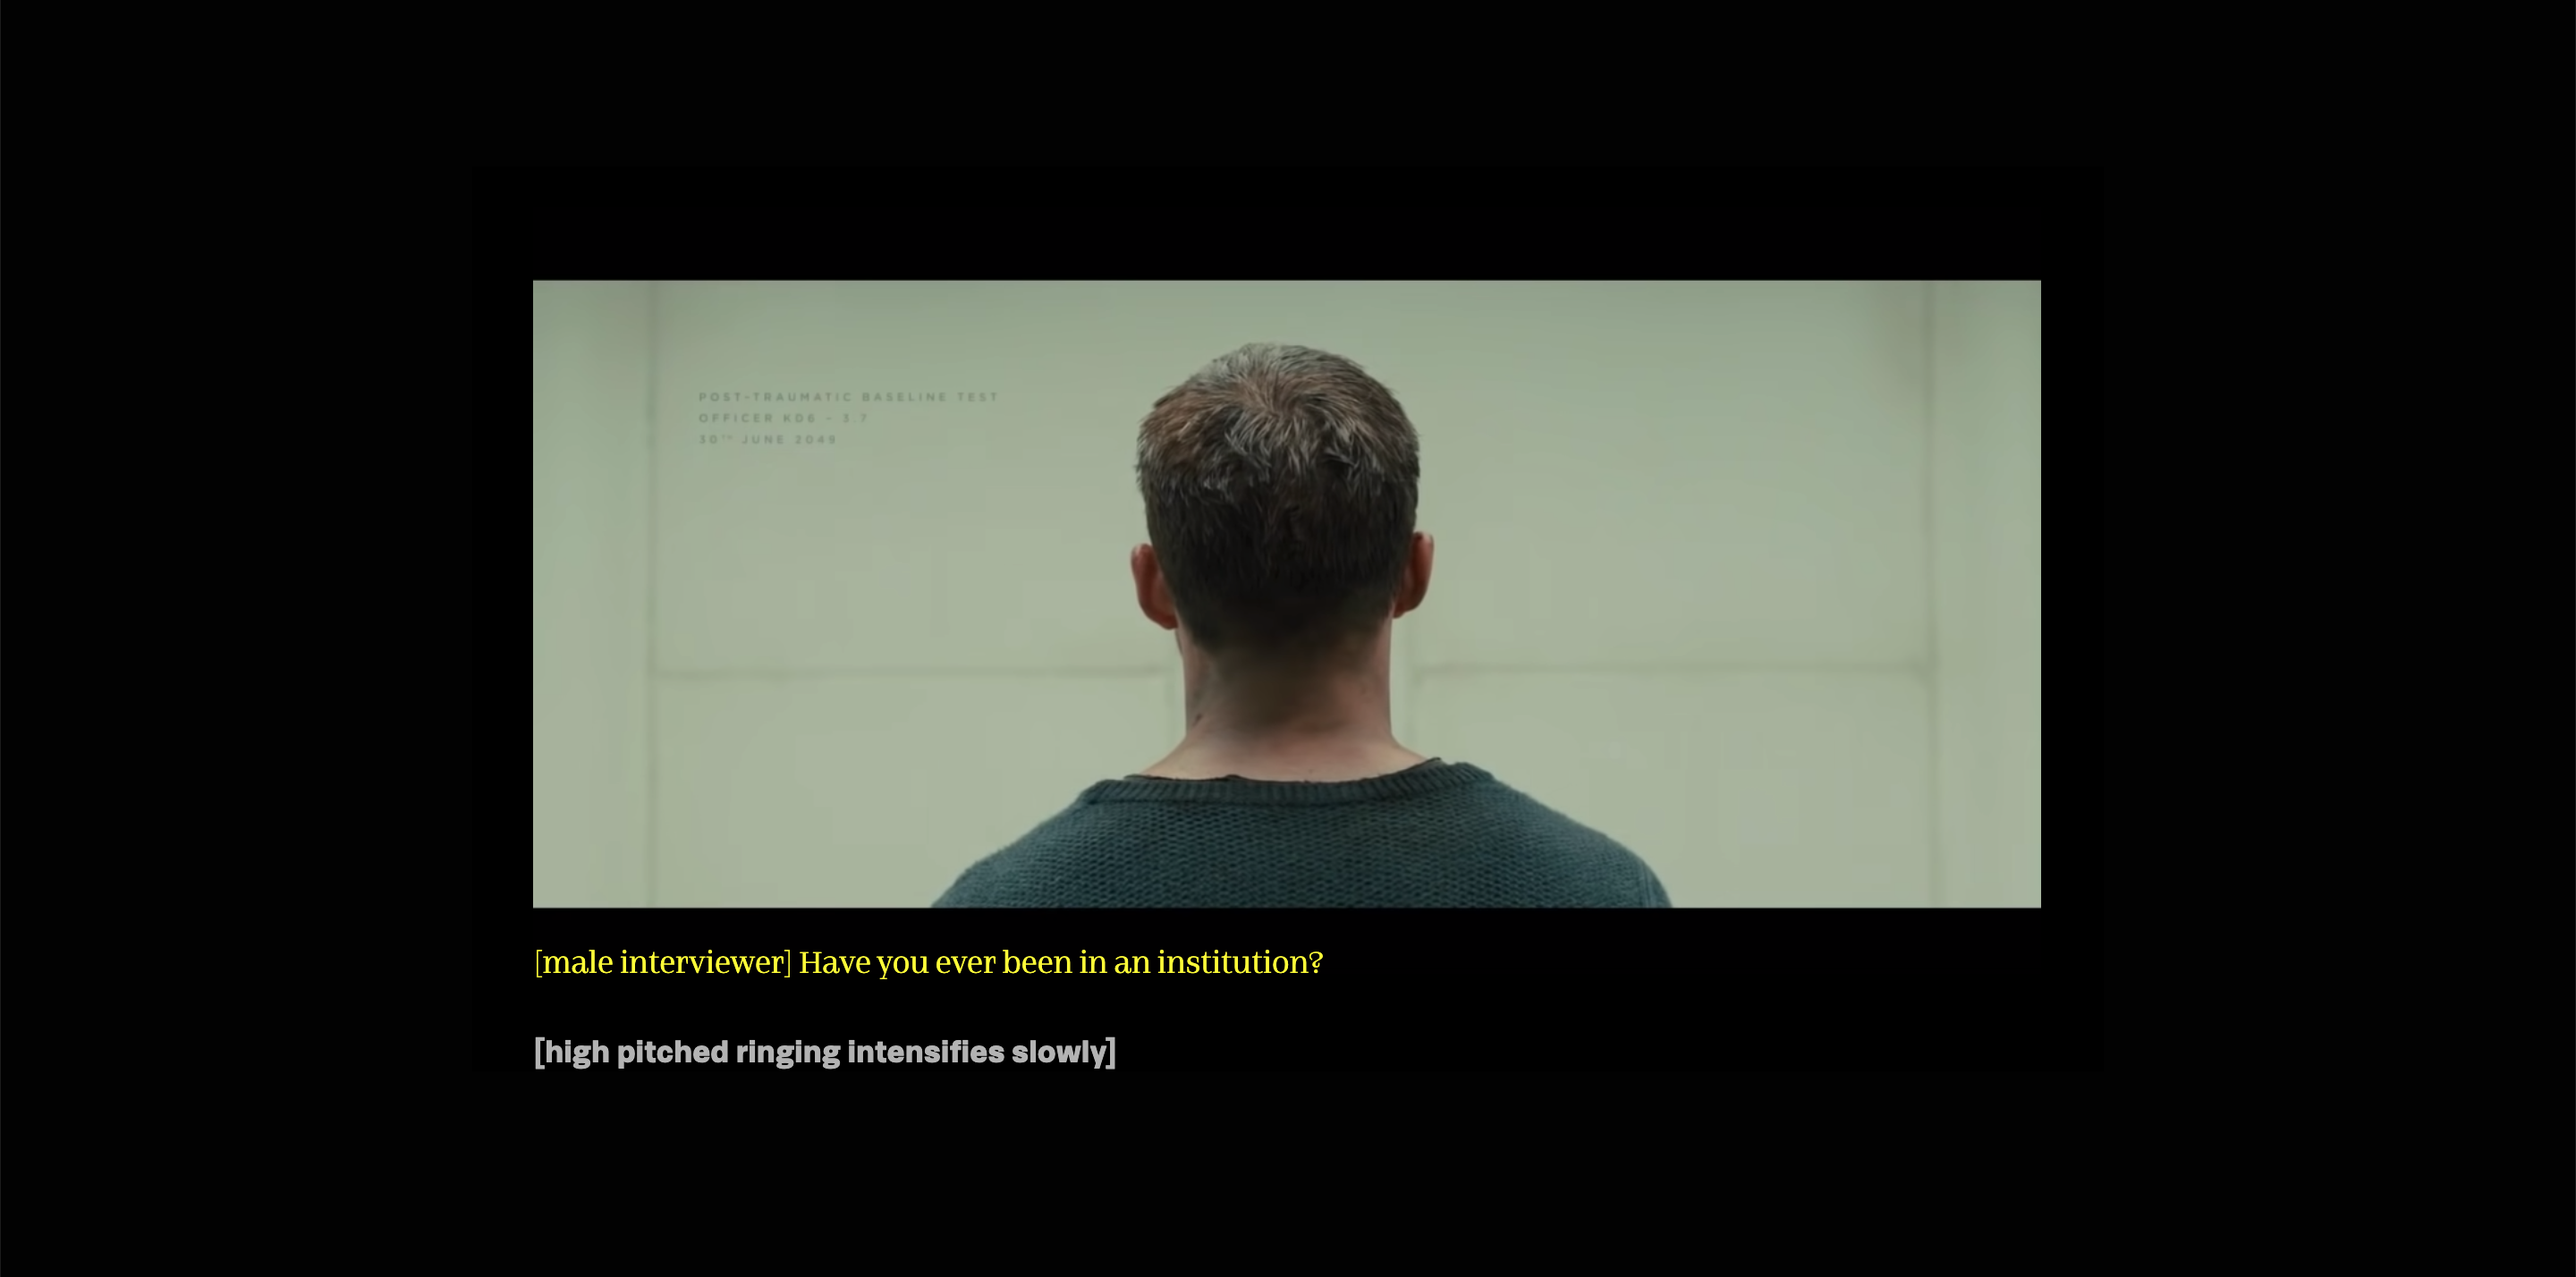
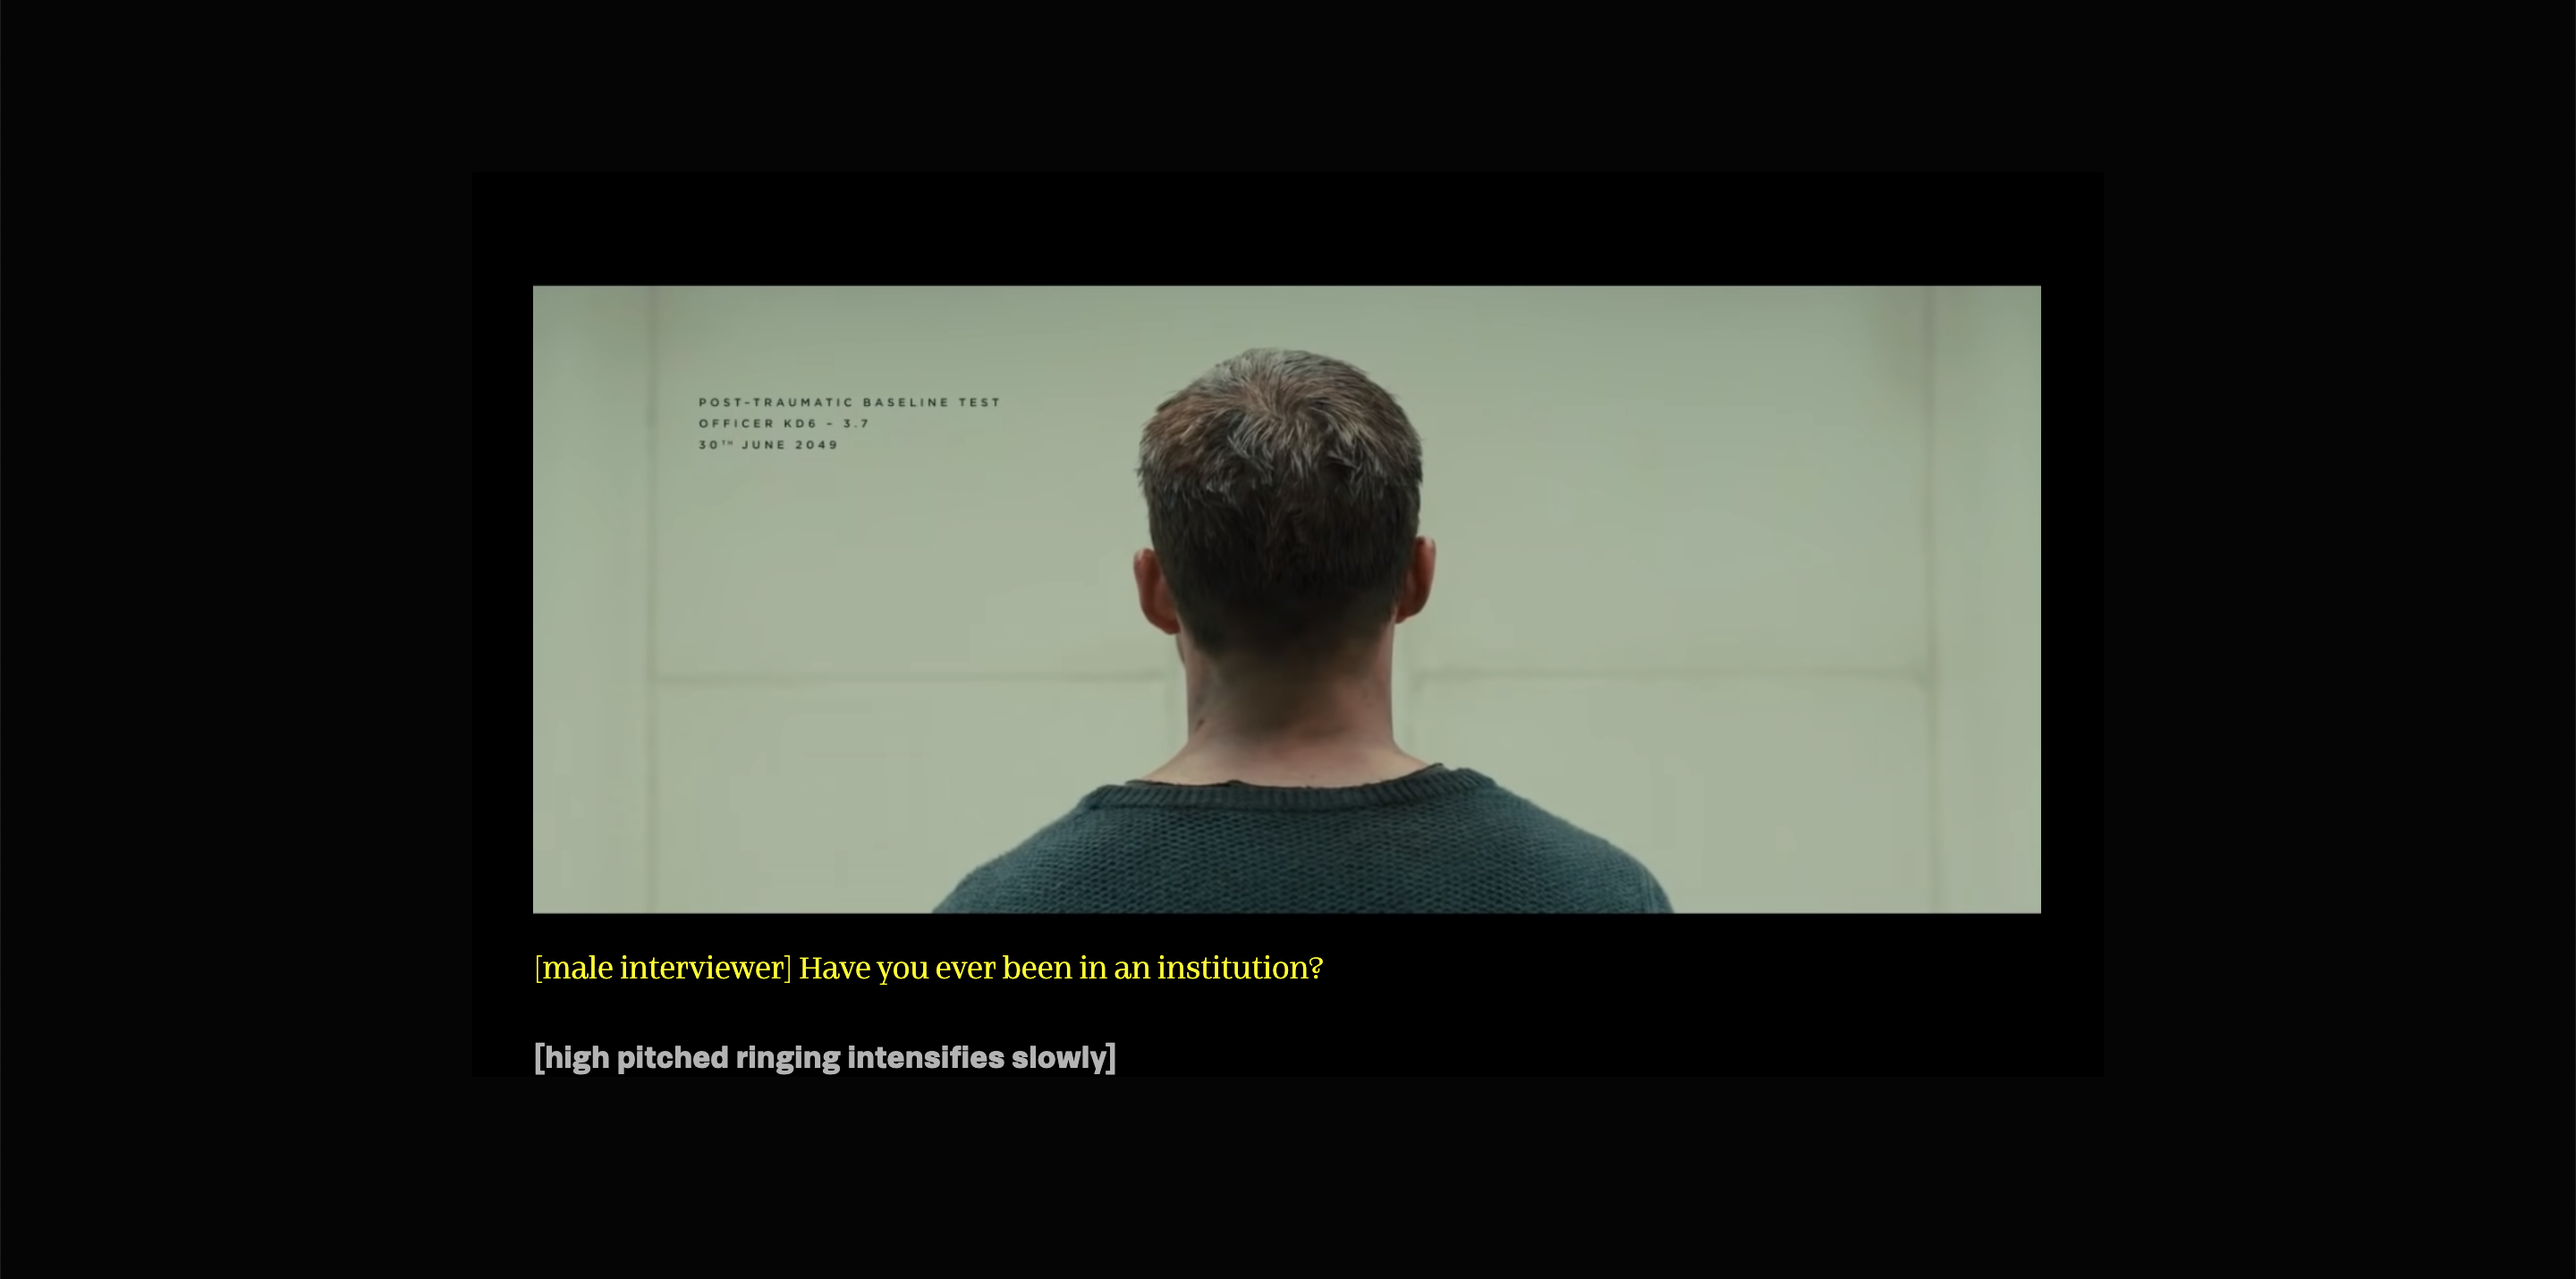
Updates

diff --git a/closed-captions-v3/css.css b/closed-captions-v3/css.css
@@ -39,68 +39,58 @@ body {
 
 /*  D E  S T E M M E N  */
 
-.voice1
-
-/*male interviewer*/
-    {
+.voice1 /*male interviewer*/ {
     color: yellow;
-    font-family: "Brenner Regular";
+    font-family: "Brenner Mono Light";
     font-style: Normal;
-    font-weight: 400;
+    font-weight: 200;
+    letter-spacing: -1px;
     margin-top: -4em;
     margin-left: 16.5em;
     z-index: 99;
 }
 
-.voice1off
-
-/*male interviewer off screen*/
-    {
+.voice1off /*male interviewer off screen*/ {
     color: yellow;
-    font-family: "Brenner Regular";
-    font-style: Normal;
-    font-weight: 400;
+    font-family: "Brenner Mono Light Italic";
+    font-style: Italic;
+    font-weight: 200;
+    letter-spacing: -1px;
     margin-top: -4em;
     margin-left: 16.5em;
     z-index: 99;
 }
 
-.voice2
-
-/*joe*/
-    {
+.voice2 /*joe*/ {
     color: white;
-    font-family: "Brenner Regular";
+    font-family: "Brenner Mono Light";
     font-style: Normal;
-    font-weight: 400;
+    font-weight: 200;
+    letter-spacing: -1px;
     /*    text-align: end;*/
     margin-top: -4em;
     margin-left: 16.5em;
     z-index: 99;
 }
 
-.voice2off
-
-/*joe off screen*/
-    {
+.voice2off /*joe off screen*/ {
     color: white;
-    font-family: "Brenner Regular";
-    font-style: Normal;
-    font-weight: 400;
+    font-family: "Brenner Mono Light Italic";
+    font-style: italic;
+    font-weight: 200;
+    letter-spacing: -1px;
     /*    text-align: end;*/
     margin-top: -4em;
     margin-left: 16.5em;
     z-index: 99;
 }
 
-.voice3
-
-/*stranger*/
-    {
+.voice3 /*stranger*/ {
     color: darkseagreen;
     font-family: "Brenner Mono";
     font-style: Normal;
     font-weight: 400;
+    letter-spacing: -1px;
     position: absolute;
     margin-top: -12em;
     text-transform: capitalize;
@@ -108,13 +98,11 @@ body {
     z-index: 99;
 }
 
-.voice4
-
-/*unindentified man*/
-    {
+.voice4 /*unindentified man*/ {
     font-family: "Brenner Mono Light Italic";
     font-style: italic;
     font-weight: 200;
+    letter-spacing: -1px;
     color: sandybrown;
     margin-top: -4em;
     margin-left: 16.5em;
@@ -122,9 +110,10 @@ body {
 }
 
 .music {
-    font-family: "Brenner Sans";
-    font-style: Normal;
-    font-weight: 800;
+    font-family: "Brenner Mono Light";
+    font-style: normal;
+    font-weight: 200;
+    letter-spacing: -1px;
     color: #B3B3B3;
     margin-top: -1.2em;
     margin-left: 16.5em;

diff --git a/README.md b/README.md
@@ -52,7 +52,7 @@ In deze versie heb ik gewerkt aan de punten die ik de vorige keer heb gekregen, 
 
 
 ## [Eindversie](https://jorienkorn.github.io/Web-Typography/closed-captions-v3/index.html)
-<img src="images/prototype3.png" width="100%">
+<img src="images/prototype3n.png" width="100%">
 
 In deze versie heb ik de feedback van vorige keer verwerkt, ik heb bijvoorbeeld het lettertype vergroot zodat het beter leesbaar is. Daarbij heb ik ook meteen het beeld vergroot zodat er nog een goede verhouding is tussen tekst en beeld. Andere dingen die ik heb aangepast zijn:
 * Achtergrond geluid in het begin gevisualiseerd
@@ -67,14 +67,14 @@ In deze versie heb ik de feedback van vorige keer verwerkt, ik heb bijvoorbeeld 
 # Gemaakte keuzes
 
 ## Typografie
-<img src="images/typovoorbeeld.png" width="50%"><img src="images/prototype3.png" width="50%">
+<img src="images/typovoorbeeld.png" width="50%"><img src="images/prototype3n.png" width="50%">
 
 Ik heb ervoor gekozen om toch wel gebruik te maken van het Brenner font, specifiek en exclusief de 'Mono' type, omdat ik dit beter bij de film vind passen. De film is futuristisch en in het fragment wordt Joe ondervraagt door een robot. Er is een lack aan emotie en daar vind ik het lettertype op aansluiten omdat deze soort lettertypes vaak worden gebruikt voor technische/futuristische uitingen zoals code, robots en computers.
 
 Maar waarom alleen het 'Mono' type? Darice houdt van consistentie, ik van niet rommelig en de film is futuristisch, perfecte combinatie om exclusief gebruik te maken van dit lettertype. Darice vind verschillende lettertypes niet erg zolang ze maar consistent zijn met degene die praat, maar persoonlijk vind ik het dan rommelig worden. Hierboven heb ik daarvan een voorbeeld laten zien.
 
 ## Kleur en vlakverdeling
-<img src="images/prototype1.png" width="50%"><img src="images/prototype3.png" width="50%">
+<img src="images/prototype1.png" width="50%"><img src="images/prototype3n.png" width="50%">
 
 Ik had in eerste instantie opgezocht welke kleuren vaak gebruikt worden voor ondertiteling en daarbij andere felle kleuren gezocht voor de rest van de stemmen zodat het aansluit op Darice haar behoefte voor neon kleuren. Na nog een keer goed te hebben gekeken, heb ik doffe kleuren gekozen zodat dit ook aansluit bij het gevoel van de film, de film is namelijk erg grauw en serieus. Ondanks dat Darice neon kleuren erg leuk vind heb ik toch besloten om hiervoor te gaan. Ik neem op deze manier wel van haar mee dat ze verschillende kleuren fijn vind, alleen pas ik aan hoe fel deze zijn en in welke tonen ze komen zodat het aansluit op de identiteit van de film.
 
